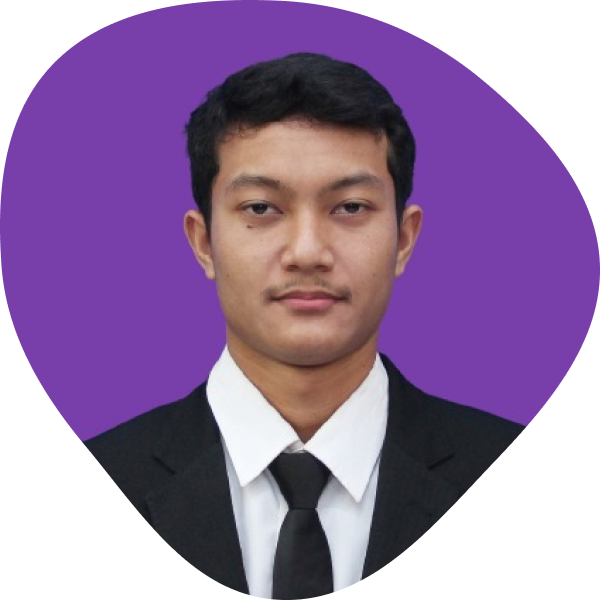
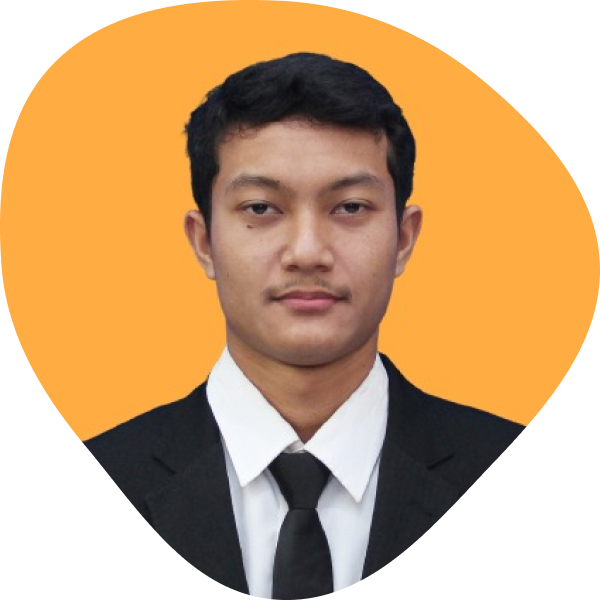
Change main color

diff --git a/public/css/style.css b/public/css/style.css
@@ -540,18 +540,6 @@ video {
   margin: 1.25rem;
 }
 
-.m-10{
-  margin: 2.5rem;
-}
-
-.m-8{
-  margin: 2rem;
-}
-
-.mt-5{
-  margin-top: 1.25rem;
-}
-
 .flex{
   display: flex;
 }
@@ -581,6 +569,11 @@ video {
   border-bottom-left-radius: 0.5rem;
 }
 
+.bg-black{
+  --tw-bg-opacity: 1;
+  background-color: rgb(0 0 0 / var(--tw-bg-opacity));
+}
+
 .bg-color-3{
   --tw-bg-opacity: 1;
   background-color: rgb(51 51 51 / var(--tw-bg-opacity));
@@ -601,13 +594,13 @@ video {
 }
 
 .from-color-1{
-  --tw-gradient-from: #9C51B7 var(--tw-gradient-from-position);
-  --tw-gradient-to: rgb(156 81 183 / 0) var(--tw-gradient-to-position);
+  --tw-gradient-from: #FFAC42 var(--tw-gradient-from-position);
+  --tw-gradient-to: rgb(255 172 66 / 0) var(--tw-gradient-to-position);
   --tw-gradient-stops: var(--tw-gradient-from), var(--tw-gradient-to);
 }
 
 .to-color-2{
-  --tw-gradient-to: #783EA9 var(--tw-gradient-to-position);
+  --tw-gradient-to: #FF1F57 var(--tw-gradient-to-position);
 }
 
 .bg-clip-text{
@@ -669,8 +662,9 @@ video {
 }
 
 @media (min-width: 280px){
-  .xxxs\:m-5{
-    margin: 1.25rem;
+  .xxxs\:my-3{
+    margin-top: 0.75rem;
+    margin-bottom: 0.75rem;
   }
 
   .xxxs\:my-5{
@@ -678,21 +672,16 @@ video {
     margin-bottom: 1.25rem;
   }
 
-  .xxxs\:my-3{
-    margin-top: 0.75rem;
-    margin-bottom: 0.75rem;
-  }
-
-  .xxxs\:mt-5{
-    margin-top: 1.25rem;
+  .xxxs\:mb-0{
+    margin-bottom: 0px;
   }
 
   .xxxs\:mt-3{
     margin-top: 0.75rem;
   }
 
-  .xxxs\:mb-0{
-    margin-bottom: 0px;
+  .xxxs\:mt-5{
+    margin-top: 1.25rem;
   }
 
   .xxxs\:h-4{
@@ -743,10 +732,6 @@ video {
 }
 
 @media (min-width: 480px){
-  .xs\:mb-5{
-    margin-bottom: 1.25rem;
-  }
-
   .xs\:mb-3{
     margin-bottom: 0.75rem;
   }
@@ -767,10 +752,6 @@ video {
 }
 
 @media (min-width: 640px){
-  .sm\:mb-5{
-    margin-bottom: 1.25rem;
-  }
-
   .sm\:w-52{
     width: 13rem;
   }
@@ -799,6 +780,10 @@ video {
     margin-bottom: 2.5rem;
   }
 
+  .lg\:mb-5{
+    margin-bottom: 1.25rem;
+  }
+
   .lg\:mt-10{
     margin-top: 2.5rem;
   }
@@ -807,28 +792,12 @@ video {
     margin-top: 2rem;
   }
 
-  .lg\:mt-5{
-    margin-top: 1.25rem;
-  }
-
-  .lg\:mb-5{
-    margin-bottom: 1.25rem;
-  }
-
   .lg\:h-10{
     height: 2.5rem;
   }
 
   .lg\:w-60{
     width: 15rem;
-  }
-
-  .lg\:justify-around{
-    justify-content: space-around;
-  }
-
-  .lg\:justify-evenly{
-    justify-content: space-evenly;
   }
 
   .lg\:text-5xl{

diff --git a/tailwind.config.js b/tailwind.config.js
@@ -4,8 +4,8 @@ module.exports = {
   theme: {
     extend: {
       colors: {
-        'color-1': '#9C51B7',
-        'color-2': '#783EA9',
+        'color-1': '#FFAC42',
+        'color-2': '#FF1F57',
         'color-3': '#333333',
         'color-4': '#666666'
       },
